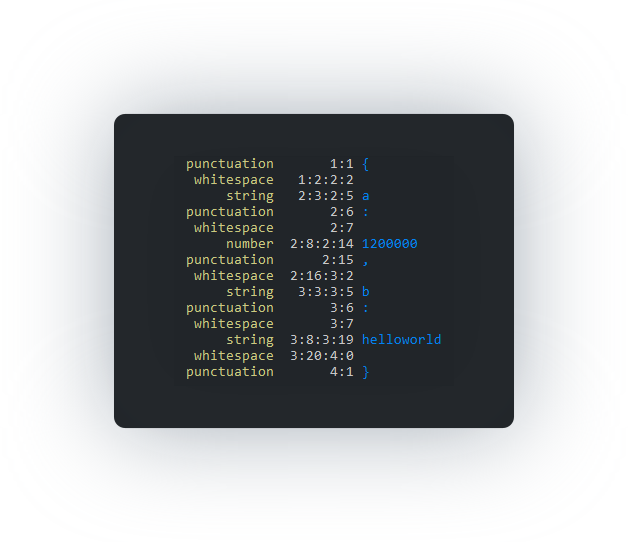
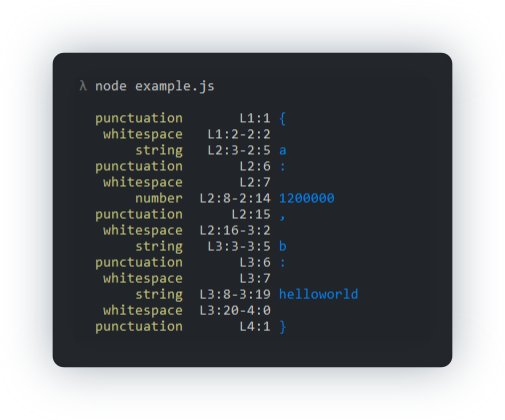
some readme improvements

diff --git a/example.js b/example.js
@@ -15,15 +15,17 @@ const fmtPosition = (pos) => `${pos.lineno}:${pos.column}`
 
 const types = tokenize.tokenizers.map((tokenizer) => chalk.yellow.bold(tokenizer.type))
 
+console.log()
+
 tokens.forEach((token) => {
   const pos = token.position
 
   const str = pos.start
-    ? `${fmtPosition(pos.start)}:${fmtPosition(pos.end)}`
-    : `${fmtPosition(pos)}`
+    ? `L${fmtPosition(pos.start)}-${fmtPosition(pos.end)}`
+    : `L${fmtPosition(pos)}`
 
   console.log(
-    lpadAlign(chalk.yellow.bold(token.type), types, 2) + lpadAlign(str, ['a'.repeat(8)], 2),
+    lpadAlign(chalk.yellow.bold(token.type), types, 2) + lpadAlign(str, ['a'.repeat(9)], 2),
     token.type === 'whitespace'
       ? ''
       : chalk.blue(token.value)

diff --git a/readme.md b/readme.md
@@ -3,11 +3,13 @@
 
 Splits a [`JSON`](http://jsonapi.org/) string into an annotated list of [tokens]().
 
-**Screenshot**
+**Screenshot - formatted tokens outputted to stdout**
 
 <p align="center">
   <img src="./tokens.png" />
 </p>
+
+<small><a href='./example.js'>View Example</a></small>
 
 ## Installation
 
